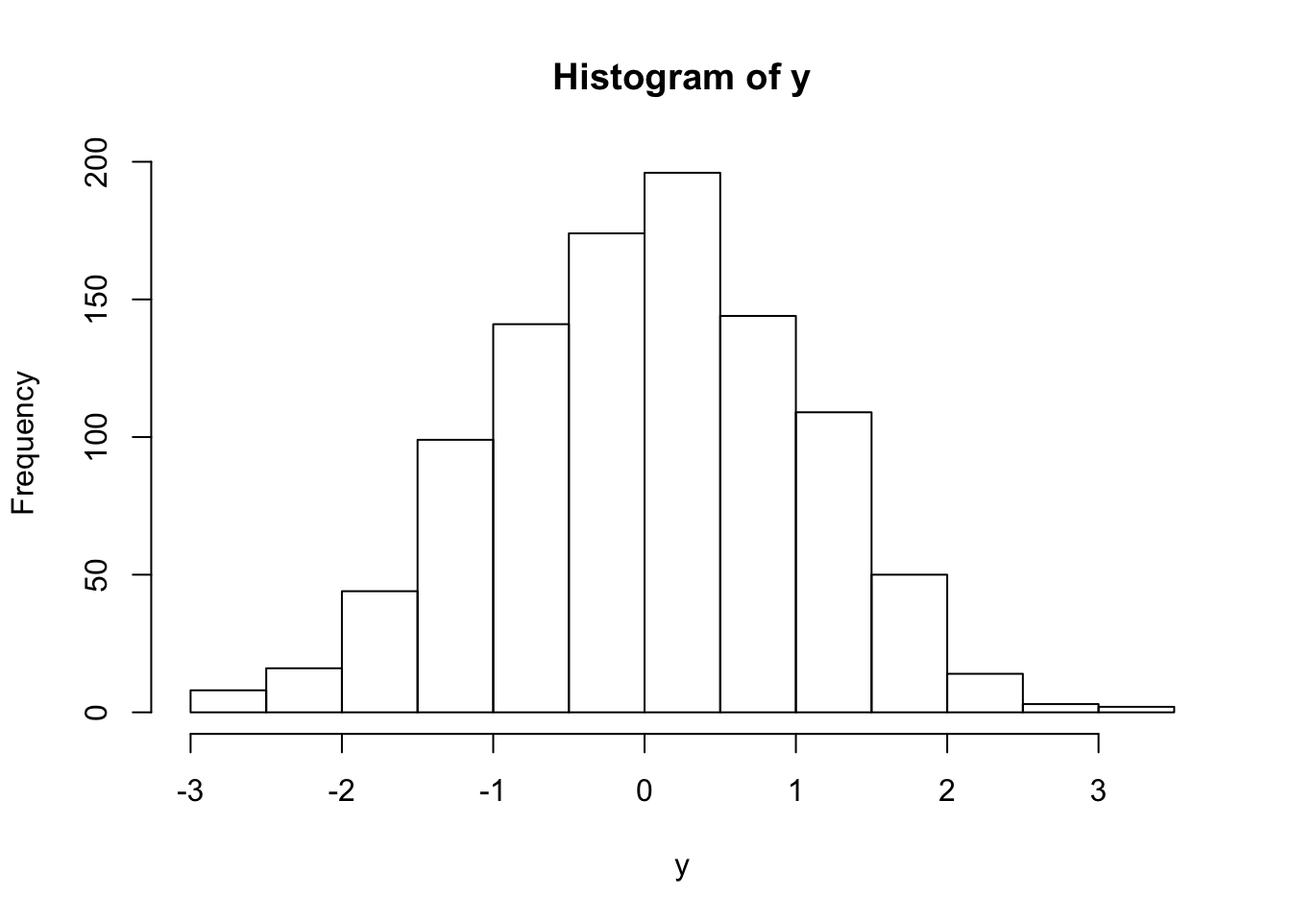
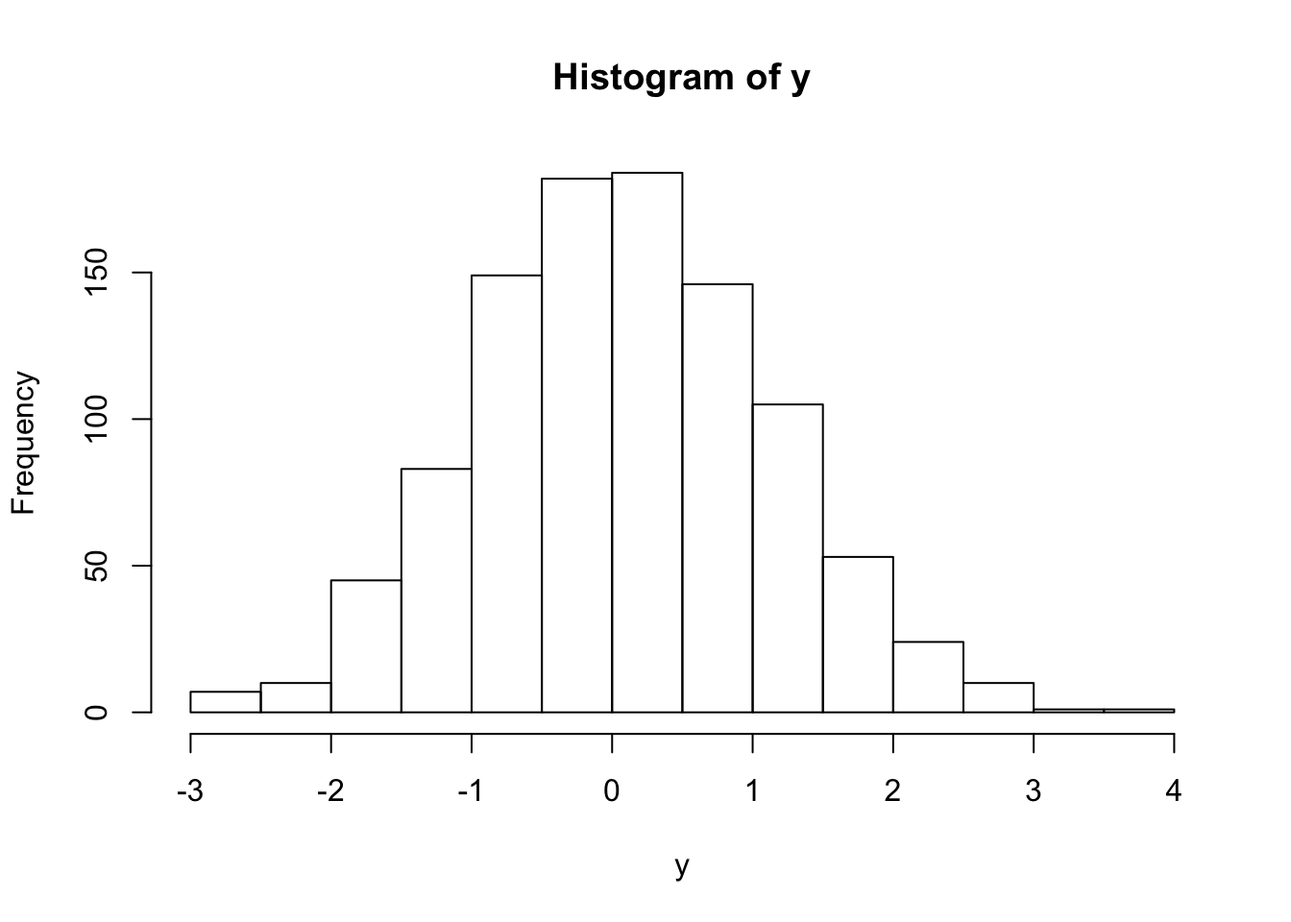
test build

diff --git a/docs/randomvars.html b/docs/randomvars.html
@@ -193,10 +193,10 @@ code span.wa { color: #60a0b0; font-weight: bold; font-style: italic; } /* Warni
 <li class="chapter" data-level="5.2.2" data-path="randomvars.html"><a href="randomvars.html#exercise-set-5-2"><i class="fa fa-check"></i><b>5.2.2</b> Exercise set 5-2</a></li>
 </ul></li>
 <li class="chapter" data-level="5.3" data-path="randomvars.html"><a href="randomvars.html#joint-distributions-covariance-and-correlation"><i class="fa fa-check"></i><b>5.3</b> Joint distributions, covariance, and correlation</a><ul>
-<li class="chapter" data-level="5.3.1" data-path="randomvars.html"><a href="randomvars.html#joint-probability-distribution---the-probability-distribution-of-the-joint-occurrence-of-x-and-y"><i class="fa fa-check"></i><b>5.3.1</b> Joint probability distribution - the probability distribution of the joint occurrence of <span class="math inline">\(X\)</span> and <span class="math inline">\(Y\)</span></a></li>
-<li class="chapter" data-level="5.3.2" data-path="randomvars.html"><a href="randomvars.html#marginal-distribution-of-x---the-probability-distribution-of-x-summing-integrating-over-all-values-of-y"><i class="fa fa-check"></i><b>5.3.2</b> Marginal distribution of X - the probability distribution of <span class="math inline">\(X\)</span>, summing (integrating) over all values of <span class="math inline">\(Y\)</span></a></li>
-<li class="chapter" data-level="5.3.3" data-path="randomvars.html"><a href="randomvars.html#covariance---a-measurement-of-the-extent-to-which-x-and-y-depart-from-independence"><i class="fa fa-check"></i><b>5.3.3</b> Covariance - a measurement of the extent to which <span class="math inline">\(X\)</span> and <span class="math inline">\(Y\)</span> depart from independence</a></li>
-<li class="chapter" data-level="5.3.4" data-path="randomvars.html"><a href="randomvars.html#correlation---covariance-rescaled-to-go-from--1-to-1"><i class="fa fa-check"></i><b>5.3.4</b> Correlation - covariance rescaled to go from -1 to 1</a></li>
+<li class="chapter" data-level="5.3.1" data-path="randomvars.html"><a href="randomvars.html#joint-probability-distributions"><i class="fa fa-check"></i><b>5.3.1</b> Joint probability distributions</a></li>
+<li class="chapter" data-level="5.3.2" data-path="randomvars.html"><a href="randomvars.html#marginal-distributions"><i class="fa fa-check"></i><b>5.3.2</b> Marginal distributions</a></li>
+<li class="chapter" data-level="5.3.3" data-path="randomvars.html"><a href="randomvars.html#covariance"><i class="fa fa-check"></i><b>5.3.3</b> Covariance</a></li>
+<li class="chapter" data-level="5.3.4" data-path="randomvars.html"><a href="randomvars.html#correlation"><i class="fa fa-check"></i><b>5.3.4</b> Correlation</a></li>
 <li class="chapter" data-level="5.3.5" data-path="randomvars.html"><a href="randomvars.html#additional-exercise-1"><i class="fa fa-check"></i><b>5.3.5</b> Additional exercise</a></li>
 <li class="chapter" data-level="5.3.6" data-path="randomvars.html"><a href="randomvars.html#exercise-set-5-3"><i class="fa fa-check"></i><b>5.3.6</b> Exercise set 5-3</a></li>
 </ul></li>
@@ -443,11 +443,11 @@ The expectation is:</p>
 <a class="sourceLine" id="cb82-5" title="5"><span class="co"># Each row represents a sample (instance) drawn from X_i</span></a>
 <a class="sourceLine" id="cb82-6" title="6">samp.mat &lt;-<span class="st"> </span><span class="kw">matrix</span>(samps, <span class="dt">ncol =</span> n.samps) </a>
 <a class="sourceLine" id="cb82-7" title="7"><span class="kw">str</span>(samp.mat)</a></code></pre></div>
-<pre><code>##  num [1:20, 1:1000] 0.098 -0.581 1.378 0.545 -0.811 ...</code></pre>
+<pre><code>##  num [1:20, 1:1000] -0.447 -1.155 1.073 1.305 -1.497 ...</code></pre>
 <div class="sourceCode" id="cb84"><pre class="sourceCode r"><code class="sourceCode r"><a class="sourceLine" id="cb84-1" title="1"><span class="co"># Here we calculate the sample mean for each X_i (column)</span></a>
 <a class="sourceLine" id="cb84-2" title="2">samp.means &lt;-<span class="st"> </span><span class="kw">colMeans</span>(samp.mat)</a>
 <a class="sourceLine" id="cb84-3" title="3"><span class="kw">str</span>(samp.means)</a></code></pre></div>
-<pre><code>##  num [1:1000] 0.142 -0.224 -0.134 0.066 -0.392 ...</code></pre>
+<pre><code>##  num [1:1000] -0.1024 -0.0623 0.1028 0.473 0.4912 ...</code></pre>
 <div class="sourceCode" id="cb86"><pre class="sourceCode r"><code class="sourceCode r"><a class="sourceLine" id="cb86-1" title="1"><span class="kw">hist</span>(samp.means)</a></code></pre></div>
 <p><img src="05_random_variables_files/figure-html/unnamed-chunk-1-1.png" width="672" /></p>
 <p>2a. What happens if we change <code>samp.size</code> (i.e., <span class="math inline">\(n\)</span>)?</p>
@@ -562,8 +562,9 @@ where <span class="math inline">\(a\)</span> and <span class="math inline">\(c\)
 <li><p>Covariance: a measurement of the extent to which <span class="math inline">\(X\)</span> and <span class="math inline">\(Y\)</span> depart from independence</p></li>
 <li><p>Correlation: covariance rescaled to go from -1 to 1</p></li>
 </ol>
-<div id="joint-probability-distribution---the-probability-distribution-of-the-joint-occurrence-of-x-and-y" class="section level3">
-<h3><span class="header-section-number">5.3.1</span> Joint probability distribution - the probability distribution of the joint occurrence of <span class="math inline">\(X\)</span> and <span class="math inline">\(Y\)</span></h3>
+<div id="joint-probability-distributions" class="section level3">
+<h3><span class="header-section-number">5.3.1</span> Joint probability distributions</h3>
+<p>Joint probability distribution: the probability distribution of the joint occurrence of <span class="math inline">\(X\)</span> and <span class="math inline">\(Y\)</span></p>
 <p>The joint cumulative probability distribution of two random variables <span class="math inline">\(X\)</span> and <span class="math inline">\(Y\)</span> is given by:</p>
 <p><span class="math display">\[
 \begin{aligned}
@@ -584,8 +585,9 @@ F_{X,Y}(x, y) =&amp; ~ \text{P}(X \leq x ~\cap ~ Y \leq y) \\
 \end{aligned}
 \]</span></p>
 </div>
-<div id="marginal-distribution-of-x---the-probability-distribution-of-x-summing-integrating-over-all-values-of-y" class="section level3">
-<h3><span class="header-section-number">5.3.2</span> Marginal distribution of X - the probability distribution of <span class="math inline">\(X\)</span>, summing (integrating) over all values of <span class="math inline">\(Y\)</span></h3>
+<div id="marginal-distributions" class="section level3">
+<h3><span class="header-section-number">5.3.2</span> Marginal distributions</h3>
+<p>Marginal distribution of X: the probability distribution of <span class="math inline">\(X\)</span>, summing (integrating) over all values of <span class="math inline">\(Y\)</span></p>
 <p>For discrete random variables, the marginal distribution of <span class="math inline">\(X\)</span> is:</p>
 <p><span class="math display">\[
 \begin{aligned}
@@ -601,8 +603,9 @@ f_{X}(x) =&amp; \int_{- \infty}^{\infty} f_{X,Y}(x, y) dy
 \end{aligned}
 \]</span></p>
 </div>
-<div id="covariance---a-measurement-of-the-extent-to-which-x-and-y-depart-from-independence" class="section level3">
-<h3><span class="header-section-number">5.3.3</span> Covariance - a measurement of the extent to which <span class="math inline">\(X\)</span> and <span class="math inline">\(Y\)</span> depart from independence</h3>
+<div id="covariance" class="section level3">
+<h3><span class="header-section-number">5.3.3</span> Covariance</h3>
+<p>Covariance is a measurement of the extent to which <span class="math inline">\(X\)</span> and <span class="math inline">\(Y\)</span> depart from independence</p>
 <p>Such a measure should have two basic properties:</p>
 <ul>
 <li>The number should be positive when <span class="math inline">\(X\)</span> and <span class="math inline">\(Y\)</span> increase or decrease together</li>
@@ -627,8 +630,9 @@ f_{X}(x) =&amp; \int_{- \infty}^{\infty} f_{X,Y}(x, y) dy
 <p>If <span class="math inline">\(X\)</span> and <span class="math inline">\(Y\)</span> are independent, then <span class="math inline">\(\text{Cov}(X,Y) = 0\)</span> (we showed this in an earlier problem set).</p>
 <p>However, if <span class="math inline">\(\text{Cov}(X,Y) = 0\)</span>, that does not necessarily imply that <span class="math inline">\(X\)</span> and <span class="math inline">\(Y\)</span> are independent.</p>
 </div>
-<div id="correlation---covariance-rescaled-to-go-from--1-to-1" class="section level3">
-<h3><span class="header-section-number">5.3.4</span> Correlation - covariance rescaled to go from -1 to 1</h3>
+<div id="correlation" class="section level3">
+<h3><span class="header-section-number">5.3.4</span> Correlation</h3>
+<p>Correlation: covariance rescaled to go from -1 to 1</p>
 <p>The covariance is not a pure measure of the linear dependence between two variables, because it is sensitive to the scaling of the variables. Therefore, we cannot use the covariance to compare the strengths of different bivariate relationships. In other words, we cannot use the covariance to answer the question: <em>Is the relationship between cereal yield and fertilizer consumption stronger than the relationship between career earnings and college GPA?</em>. Instead, we calculate the correlation:</p>
 <p><span class="math display">\[
 \begin{aligned}
@@ -755,7 +759,7 @@ f_{X|Y}(x |Y = y) =&amp; \frac{f_{X,Y}(x,y)}{f_{Y}(y)}
 ##     lines(x, dnorm(x, mean = mean(dosm), sd = sd(dosm)))
 ##     c(`mean of DOSM` = mean(dosm), `SD of DOSM` = sd(dosm), `var of DOSM` = var(dosm))
 ## }
-## &lt;bytecode: 0x7f8a81966dd8&gt;
+## &lt;bytecode: 0x7fef338d4da0&gt;
 ## &lt;environment: namespace:stfspack&gt;</code></pre>
 <div class="sourceCode" id="cb105"><pre class="sourceCode r"><code class="sourceCode r"><a class="sourceLine" id="cb105-1" title="1">nsim &lt;-<span class="st"> </span><span class="dv">10000</span></a>
 <a class="sourceLine" id="cb105-2" title="2">n &lt;-<span class="st"> </span><span class="dv">1</span></a>
@@ -829,7 +833,7 @@ If the shape parameter is <span class="math inline">\(\leq\)</span> 2, <span cla
 ##     mean(x &lt; (mu - k * sigma) | x &gt; (mu + k * sigma))/(1 - (pnorm(k) - 
 ##         pnorm(-k)))
 ## }
-## &lt;bytecode: 0x7f8a828ae290&gt;
+## &lt;bytecode: 0x7fef379fd608&gt;
 ## &lt;environment: namespace:stfspack&gt;</code></pre>
 <div class="sourceCode" id="cb121"><pre class="sourceCode r"><code class="sourceCode r"><a class="sourceLine" id="cb121-1" title="1">k &lt;-<span class="st"> </span><span class="dv">2</span> <span class="co"># sds</span></a>
 <a class="sourceLine" id="cb121-2" title="2"><span class="kw">compare.tail.to.normal</span>(<span class="dt">x =</span> x, <span class="dt">k =</span> k, <span class="dt">mu =</span> mu, <span class="dt">sigma =</span> stdev)</a></code></pre></div>
@@ -992,7 +996,7 @@ If the shape parameter is <span class="math inline">\(\leq\)</span> 2, <span cla
 ##     y &lt;- a + b * x + disturbs
 ##     cbind(x, y)
 ## }
-## &lt;bytecode: 0x7f8a839e5358&gt;
+## &lt;bytecode: 0x7fef37ac8e30&gt;
 ## &lt;environment: namespace:stfspack&gt;</code></pre>
 <div class="sourceCode" id="cb171"><pre class="sourceCode r"><code class="sourceCode r"><a class="sourceLine" id="cb171-1" title="1">sim_<span class="dv">0</span>_<span class="dv">1</span> &lt;-<span class="st"> </span><span class="kw">sim.lm</span>(<span class="dt">n =</span> <span class="dv">50</span>, <span class="dt">a =</span> <span class="dv">0</span>, <span class="dt">b =</span> <span class="dv">1</span>)</a>
 <a class="sourceLine" id="cb171-2" title="2"><span class="kw">head</span>(sim_<span class="dv">0</span>_<span class="dv">1</span>)</a></code></pre></div>

diff --git a/docs/best-fit-line.html b/docs/best-fit-line.html
@@ -193,10 +193,10 @@ code span.wa { color: #60a0b0; font-weight: bold; font-style: italic; } /* Warni
 <li class="chapter" data-level="5.2.2" data-path="randomvars.html"><a href="randomvars.html#exercise-set-5-2"><i class="fa fa-check"></i><b>5.2.2</b> Exercise set 5-2</a></li>
 </ul></li>
 <li class="chapter" data-level="5.3" data-path="randomvars.html"><a href="randomvars.html#joint-distributions-covariance-and-correlation"><i class="fa fa-check"></i><b>5.3</b> Joint distributions, covariance, and correlation</a><ul>
-<li class="chapter" data-level="5.3.1" data-path="randomvars.html"><a href="randomvars.html#joint-probability-distribution---the-probability-distribution-of-the-joint-occurrence-of-x-and-y"><i class="fa fa-check"></i><b>5.3.1</b> Joint probability distribution - the probability distribution of the joint occurrence of <span class="math inline">\(X\)</span> and <span class="math inline">\(Y\)</span></a></li>
-<li class="chapter" data-level="5.3.2" data-path="randomvars.html"><a href="randomvars.html#marginal-distribution-of-x---the-probability-distribution-of-x-summing-integrating-over-all-values-of-y"><i class="fa fa-check"></i><b>5.3.2</b> Marginal distribution of X - the probability distribution of <span class="math inline">\(X\)</span>, summing (integrating) over all values of <span class="math inline">\(Y\)</span></a></li>
-<li class="chapter" data-level="5.3.3" data-path="randomvars.html"><a href="randomvars.html#covariance---a-measurement-of-the-extent-to-which-x-and-y-depart-from-independence"><i class="fa fa-check"></i><b>5.3.3</b> Covariance - a measurement of the extent to which <span class="math inline">\(X\)</span> and <span class="math inline">\(Y\)</span> depart from independence</a></li>
-<li class="chapter" data-level="5.3.4" data-path="randomvars.html"><a href="randomvars.html#correlation---covariance-rescaled-to-go-from--1-to-1"><i class="fa fa-check"></i><b>5.3.4</b> Correlation - covariance rescaled to go from -1 to 1</a></li>
+<li class="chapter" data-level="5.3.1" data-path="randomvars.html"><a href="randomvars.html#joint-probability-distributions"><i class="fa fa-check"></i><b>5.3.1</b> Joint probability distributions</a></li>
+<li class="chapter" data-level="5.3.2" data-path="randomvars.html"><a href="randomvars.html#marginal-distributions"><i class="fa fa-check"></i><b>5.3.2</b> Marginal distributions</a></li>
+<li class="chapter" data-level="5.3.3" data-path="randomvars.html"><a href="randomvars.html#covariance"><i class="fa fa-check"></i><b>5.3.3</b> Covariance</a></li>
+<li class="chapter" data-level="5.3.4" data-path="randomvars.html"><a href="randomvars.html#correlation"><i class="fa fa-check"></i><b>5.3.4</b> Correlation</a></li>
 <li class="chapter" data-level="5.3.5" data-path="randomvars.html"><a href="randomvars.html#additional-exercise-1"><i class="fa fa-check"></i><b>5.3.5</b> Additional exercise</a></li>
 <li class="chapter" data-level="5.3.6" data-path="randomvars.html"><a href="randomvars.html#exercise-set-5-3"><i class="fa fa-check"></i><b>5.3.6</b> Exercise set 5-3</a></li>
 </ul></li>

diff --git a/docs/index.html b/docs/index.html
@@ -193,10 +193,10 @@ code span.wa { color: #60a0b0; font-weight: bold; font-style: italic; } /* Warni
 <li class="chapter" data-level="5.2.2" data-path="randomvars.html"><a href="randomvars.html#exercise-set-5-2"><i class="fa fa-check"></i><b>5.2.2</b> Exercise set 5-2</a></li>
 </ul></li>
 <li class="chapter" data-level="5.3" data-path="randomvars.html"><a href="randomvars.html#joint-distributions-covariance-and-correlation"><i class="fa fa-check"></i><b>5.3</b> Joint distributions, covariance, and correlation</a><ul>
-<li class="chapter" data-level="5.3.1" data-path="randomvars.html"><a href="randomvars.html#joint-probability-distribution---the-probability-distribution-of-the-joint-occurrence-of-x-and-y"><i class="fa fa-check"></i><b>5.3.1</b> Joint probability distribution - the probability distribution of the joint occurrence of <span class="math inline">\(X\)</span> and <span class="math inline">\(Y\)</span></a></li>
-<li class="chapter" data-level="5.3.2" data-path="randomvars.html"><a href="randomvars.html#marginal-distribution-of-x---the-probability-distribution-of-x-summing-integrating-over-all-values-of-y"><i class="fa fa-check"></i><b>5.3.2</b> Marginal distribution of X - the probability distribution of <span class="math inline">\(X\)</span>, summing (integrating) over all values of <span class="math inline">\(Y\)</span></a></li>
-<li class="chapter" data-level="5.3.3" data-path="randomvars.html"><a href="randomvars.html#covariance---a-measurement-of-the-extent-to-which-x-and-y-depart-from-independence"><i class="fa fa-check"></i><b>5.3.3</b> Covariance - a measurement of the extent to which <span class="math inline">\(X\)</span> and <span class="math inline">\(Y\)</span> depart from independence</a></li>
-<li class="chapter" data-level="5.3.4" data-path="randomvars.html"><a href="randomvars.html#correlation---covariance-rescaled-to-go-from--1-to-1"><i class="fa fa-check"></i><b>5.3.4</b> Correlation - covariance rescaled to go from -1 to 1</a></li>
+<li class="chapter" data-level="5.3.1" data-path="randomvars.html"><a href="randomvars.html#joint-probability-distributions"><i class="fa fa-check"></i><b>5.3.1</b> Joint probability distributions</a></li>
+<li class="chapter" data-level="5.3.2" data-path="randomvars.html"><a href="randomvars.html#marginal-distributions"><i class="fa fa-check"></i><b>5.3.2</b> Marginal distributions</a></li>
+<li class="chapter" data-level="5.3.3" data-path="randomvars.html"><a href="randomvars.html#covariance"><i class="fa fa-check"></i><b>5.3.3</b> Covariance</a></li>
+<li class="chapter" data-level="5.3.4" data-path="randomvars.html"><a href="randomvars.html#correlation"><i class="fa fa-check"></i><b>5.3.4</b> Correlation</a></li>
 <li class="chapter" data-level="5.3.5" data-path="randomvars.html"><a href="randomvars.html#additional-exercise-1"><i class="fa fa-check"></i><b>5.3.5</b> Additional exercise</a></li>
 <li class="chapter" data-level="5.3.6" data-path="randomvars.html"><a href="randomvars.html#exercise-set-5-3"><i class="fa fa-check"></i><b>5.3.6</b> Exercise set 5-3</a></li>
 </ul></li>

diff --git a/docs/intro.html b/docs/intro.html
@@ -193,10 +193,10 @@ code span.wa { color: #60a0b0; font-weight: bold; font-style: italic; } /* Warni
 <li class="chapter" data-level="5.2.2" data-path="randomvars.html"><a href="randomvars.html#exercise-set-5-2"><i class="fa fa-check"></i><b>5.2.2</b> Exercise set 5-2</a></li>
 </ul></li>
 <li class="chapter" data-level="5.3" data-path="randomvars.html"><a href="randomvars.html#joint-distributions-covariance-and-correlation"><i class="fa fa-check"></i><b>5.3</b> Joint distributions, covariance, and correlation</a><ul>
-<li class="chapter" data-level="5.3.1" data-path="randomvars.html"><a href="randomvars.html#joint-probability-distribution---the-probability-distribution-of-the-joint-occurrence-of-x-and-y"><i class="fa fa-check"></i><b>5.3.1</b> Joint probability distribution - the probability distribution of the joint occurrence of <span class="math inline">\(X\)</span> and <span class="math inline">\(Y\)</span></a></li>
-<li class="chapter" data-level="5.3.2" data-path="randomvars.html"><a href="randomvars.html#marginal-distribution-of-x---the-probability-distribution-of-x-summing-integrating-over-all-values-of-y"><i class="fa fa-check"></i><b>5.3.2</b> Marginal distribution of X - the probability distribution of <span class="math inline">\(X\)</span>, summing (integrating) over all values of <span class="math inline">\(Y\)</span></a></li>
-<li class="chapter" data-level="5.3.3" data-path="randomvars.html"><a href="randomvars.html#covariance---a-measurement-of-the-extent-to-which-x-and-y-depart-from-independence"><i class="fa fa-check"></i><b>5.3.3</b> Covariance - a measurement of the extent to which <span class="math inline">\(X\)</span> and <span class="math inline">\(Y\)</span> depart from independence</a></li>
-<li class="chapter" data-level="5.3.4" data-path="randomvars.html"><a href="randomvars.html#correlation---covariance-rescaled-to-go-from--1-to-1"><i class="fa fa-check"></i><b>5.3.4</b> Correlation - covariance rescaled to go from -1 to 1</a></li>
+<li class="chapter" data-level="5.3.1" data-path="randomvars.html"><a href="randomvars.html#joint-probability-distributions"><i class="fa fa-check"></i><b>5.3.1</b> Joint probability distributions</a></li>
+<li class="chapter" data-level="5.3.2" data-path="randomvars.html"><a href="randomvars.html#marginal-distributions"><i class="fa fa-check"></i><b>5.3.2</b> Marginal distributions</a></li>
+<li class="chapter" data-level="5.3.3" data-path="randomvars.html"><a href="randomvars.html#covariance"><i class="fa fa-check"></i><b>5.3.3</b> Covariance</a></li>
+<li class="chapter" data-level="5.3.4" data-path="randomvars.html"><a href="randomvars.html#correlation"><i class="fa fa-check"></i><b>5.3.4</b> Correlation</a></li>
 <li class="chapter" data-level="5.3.5" data-path="randomvars.html"><a href="randomvars.html#additional-exercise-1"><i class="fa fa-check"></i><b>5.3.5</b> Additional exercise</a></li>
 <li class="chapter" data-level="5.3.6" data-path="randomvars.html"><a href="randomvars.html#exercise-set-5-3"><i class="fa fa-check"></i><b>5.3.6</b> Exercise set 5-3</a></li>
 </ul></li>

diff --git a/docs/probability.html b/docs/probability.html
@@ -193,10 +193,10 @@ code span.wa { color: #60a0b0; font-weight: bold; font-style: italic; } /* Warni
 <li class="chapter" data-level="5.2.2" data-path="randomvars.html"><a href="randomvars.html#exercise-set-5-2"><i class="fa fa-check"></i><b>5.2.2</b> Exercise set 5-2</a></li>
 </ul></li>
 <li class="chapter" data-level="5.3" data-path="randomvars.html"><a href="randomvars.html#joint-distributions-covariance-and-correlation"><i class="fa fa-check"></i><b>5.3</b> Joint distributions, covariance, and correlation</a><ul>
-<li class="chapter" data-level="5.3.1" data-path="randomvars.html"><a href="randomvars.html#joint-probability-distribution---the-probability-distribution-of-the-joint-occurrence-of-x-and-y"><i class="fa fa-check"></i><b>5.3.1</b> Joint probability distribution - the probability distribution of the joint occurrence of <span class="math inline">\(X\)</span> and <span class="math inline">\(Y\)</span></a></li>
-<li class="chapter" data-level="5.3.2" data-path="randomvars.html"><a href="randomvars.html#marginal-distribution-of-x---the-probability-distribution-of-x-summing-integrating-over-all-values-of-y"><i class="fa fa-check"></i><b>5.3.2</b> Marginal distribution of X - the probability distribution of <span class="math inline">\(X\)</span>, summing (integrating) over all values of <span class="math inline">\(Y\)</span></a></li>
-<li class="chapter" data-level="5.3.3" data-path="randomvars.html"><a href="randomvars.html#covariance---a-measurement-of-the-extent-to-which-x-and-y-depart-from-independence"><i class="fa fa-check"></i><b>5.3.3</b> Covariance - a measurement of the extent to which <span class="math inline">\(X\)</span> and <span class="math inline">\(Y\)</span> depart from independence</a></li>
-<li class="chapter" data-level="5.3.4" data-path="randomvars.html"><a href="randomvars.html#correlation---covariance-rescaled-to-go-from--1-to-1"><i class="fa fa-check"></i><b>5.3.4</b> Correlation - covariance rescaled to go from -1 to 1</a></li>
+<li class="chapter" data-level="5.3.1" data-path="randomvars.html"><a href="randomvars.html#joint-probability-distributions"><i class="fa fa-check"></i><b>5.3.1</b> Joint probability distributions</a></li>
+<li class="chapter" data-level="5.3.2" data-path="randomvars.html"><a href="randomvars.html#marginal-distributions"><i class="fa fa-check"></i><b>5.3.2</b> Marginal distributions</a></li>
+<li class="chapter" data-level="5.3.3" data-path="randomvars.html"><a href="randomvars.html#covariance"><i class="fa fa-check"></i><b>5.3.3</b> Covariance</a></li>
+<li class="chapter" data-level="5.3.4" data-path="randomvars.html"><a href="randomvars.html#correlation"><i class="fa fa-check"></i><b>5.3.4</b> Correlation</a></li>
 <li class="chapter" data-level="5.3.5" data-path="randomvars.html"><a href="randomvars.html#additional-exercise-1"><i class="fa fa-check"></i><b>5.3.5</b> Additional exercise</a></li>
 <li class="chapter" data-level="5.3.6" data-path="randomvars.html"><a href="randomvars.html#exercise-set-5-3"><i class="fa fa-check"></i><b>5.3.6</b> Exercise set 5-3</a></li>
 </ul></li>

diff --git a/docs/r-eda.html b/docs/r-eda.html
@@ -193,10 +193,10 @@ code span.wa { color: #60a0b0; font-weight: bold; font-style: italic; } /* Warni
 <li class="chapter" data-level="5.2.2" data-path="randomvars.html"><a href="randomvars.html#exercise-set-5-2"><i class="fa fa-check"></i><b>5.2.2</b> Exercise set 5-2</a></li>
 </ul></li>
 <li class="chapter" data-level="5.3" data-path="randomvars.html"><a href="randomvars.html#joint-distributions-covariance-and-correlation"><i class="fa fa-check"></i><b>5.3</b> Joint distributions, covariance, and correlation</a><ul>
-<li class="chapter" data-level="5.3.1" data-path="randomvars.html"><a href="randomvars.html#joint-probability-distribution---the-probability-distribution-of-the-joint-occurrence-of-x-and-y"><i class="fa fa-check"></i><b>5.3.1</b> Joint probability distribution - the probability distribution of the joint occurrence of <span class="math inline">\(X\)</span> and <span class="math inline">\(Y\)</span></a></li>
-<li class="chapter" data-level="5.3.2" data-path="randomvars.html"><a href="randomvars.html#marginal-distribution-of-x---the-probability-distribution-of-x-summing-integrating-over-all-values-of-y"><i class="fa fa-check"></i><b>5.3.2</b> Marginal distribution of X - the probability distribution of <span class="math inline">\(X\)</span>, summing (integrating) over all values of <span class="math inline">\(Y\)</span></a></li>
-<li class="chapter" data-level="5.3.3" data-path="randomvars.html"><a href="randomvars.html#covariance---a-measurement-of-the-extent-to-which-x-and-y-depart-from-independence"><i class="fa fa-check"></i><b>5.3.3</b> Covariance - a measurement of the extent to which <span class="math inline">\(X\)</span> and <span class="math inline">\(Y\)</span> depart from independence</a></li>
-<li class="chapter" data-level="5.3.4" data-path="randomvars.html"><a href="randomvars.html#correlation---covariance-rescaled-to-go-from--1-to-1"><i class="fa fa-check"></i><b>5.3.4</b> Correlation - covariance rescaled to go from -1 to 1</a></li>
+<li class="chapter" data-level="5.3.1" data-path="randomvars.html"><a href="randomvars.html#joint-probability-distributions"><i class="fa fa-check"></i><b>5.3.1</b> Joint probability distributions</a></li>
+<li class="chapter" data-level="5.3.2" data-path="randomvars.html"><a href="randomvars.html#marginal-distributions"><i class="fa fa-check"></i><b>5.3.2</b> Marginal distributions</a></li>
+<li class="chapter" data-level="5.3.3" data-path="randomvars.html"><a href="randomvars.html#covariance"><i class="fa fa-check"></i><b>5.3.3</b> Covariance</a></li>
+<li class="chapter" data-level="5.3.4" data-path="randomvars.html"><a href="randomvars.html#correlation"><i class="fa fa-check"></i><b>5.3.4</b> Correlation</a></li>
 <li class="chapter" data-level="5.3.5" data-path="randomvars.html"><a href="randomvars.html#additional-exercise-1"><i class="fa fa-check"></i><b>5.3.5</b> Additional exercise</a></li>
 <li class="chapter" data-level="5.3.6" data-path="randomvars.html"><a href="randomvars.html#exercise-set-5-3"><i class="fa fa-check"></i><b>5.3.6</b> Exercise set 5-3</a></li>
 </ul></li>

diff --git a/docs/05_random_variables.md b/docs/05_random_variables.md
@@ -285,7 +285,7 @@ str(samp.mat)
 ```
 
 ```
-##  num [1:20, 1:1000] 0.098 -0.581 1.378 0.545 -0.811 ...
+##  num [1:20, 1:1000] -0.447 -1.155 1.073 1.305 -1.497 ...
 ```
 
 ```r
@@ -295,7 +295,7 @@ str(samp.means)
 ```
 
 ```
-##  num [1:1000] 0.142 -0.224 -0.134 0.066 -0.392 ...
+##  num [1:1000] -0.1024 -0.0623 0.1028 0.473 0.4912 ...
 ```
 
 ```r
@@ -443,7 +443,9 @@ This section covers four key concepts:
 
 4. Correlation: covariance rescaled to go from -1 to 1
 
-### Joint probability distribution - the probability distribution of the joint occurrence of $X$ and $Y$
+### Joint probability distributions
+
+Joint probability distribution: the probability distribution of the joint occurrence of $X$ and $Y$
 
 The joint cumulative probability distribution of two random variables $X$ and $Y$ is given by:
 
@@ -470,7 +472,9 @@ F_{X,Y}(x, y) =& ~ \text{P}(X \leq x ~\cap ~ Y \leq y) \\
 \end{aligned}
 $$
 
-### Marginal distribution of X - the probability distribution of $X$, summing (integrating) over all values of $Y$
+### Marginal distributions
+
+Marginal distribution of X: the probability distribution of $X$, summing (integrating) over all values of $Y$
 
 For discrete random variables, the marginal distribution of $X$ is:
 
@@ -490,7 +494,9 @@ f_{X}(x) =& \int_{- \infty}^{\infty} f_{X,Y}(x, y) dy
 \end{aligned}
 $$
 
-### Covariance - a measurement of the extent to which $X$ and $Y$ depart from independence
+### Covariance
+
+Covariance is a measurement of the extent to which $X$ and $Y$ depart from independence
 
 Such a measure should have two basic properties:
 
@@ -521,7 +527,9 @@ If $X$ and $Y$ are independent, then $\text{Cov}(X,Y) = 0$ (we showed this in an
 
 However, if $\text{Cov}(X,Y) = 0$, that does not necessarily imply that $X$ and $Y$ are independent. 
 
-### Correlation - covariance rescaled to go from -1 to 1
+### Correlation 
+
+Correlation: covariance rescaled to go from -1 to 1
 
 The covariance is not a pure measure of the linear dependence between two variables, because it is sensitive to the scaling of the variables. Therefore, we cannot use the covariance to compare the strengths of different bivariate relationships. In other words, we cannot use the covariance to answer the question: *Is the relationship between cereal yield and fertilizer consumption stronger than the relationship between career earnings and college GPA?*. Instead, we calculate the correlation:
 
@@ -723,7 +731,7 @@ dosm.beta.hist
 ##     lines(x, dnorm(x, mean = mean(dosm), sd = sd(dosm)))
 ##     c(`mean of DOSM` = mean(dosm), `SD of DOSM` = sd(dosm), `var of DOSM` = var(dosm))
 ## }
-## <bytecode: 0x7f8a81966dd8>
+## <bytecode: 0x7fef338d4da0>
 ## <environment: namespace:stfspack>
 ```
 
@@ -850,7 +858,7 @@ compare.tail.to.normal
 ##     mean(x < (mu - k * sigma) | x > (mu + k * sigma))/(1 - (pnorm(k) - 
 ##         pnorm(-k)))
 ## }
-## <bytecode: 0x7f8a828ae290>
+## <bytecode: 0x7fef379fd608>
 ## <environment: namespace:stfspack>
 ```
 
@@ -1173,7 +1181,7 @@ sim.lm
 ##     y <- a + b * x + disturbs
 ##     cbind(x, y)
 ## }
-## <bytecode: 0x7f8a839e5358>
+## <bytecode: 0x7fef37ac8e30>
 ## <environment: namespace:stfspack>
 ```
 
